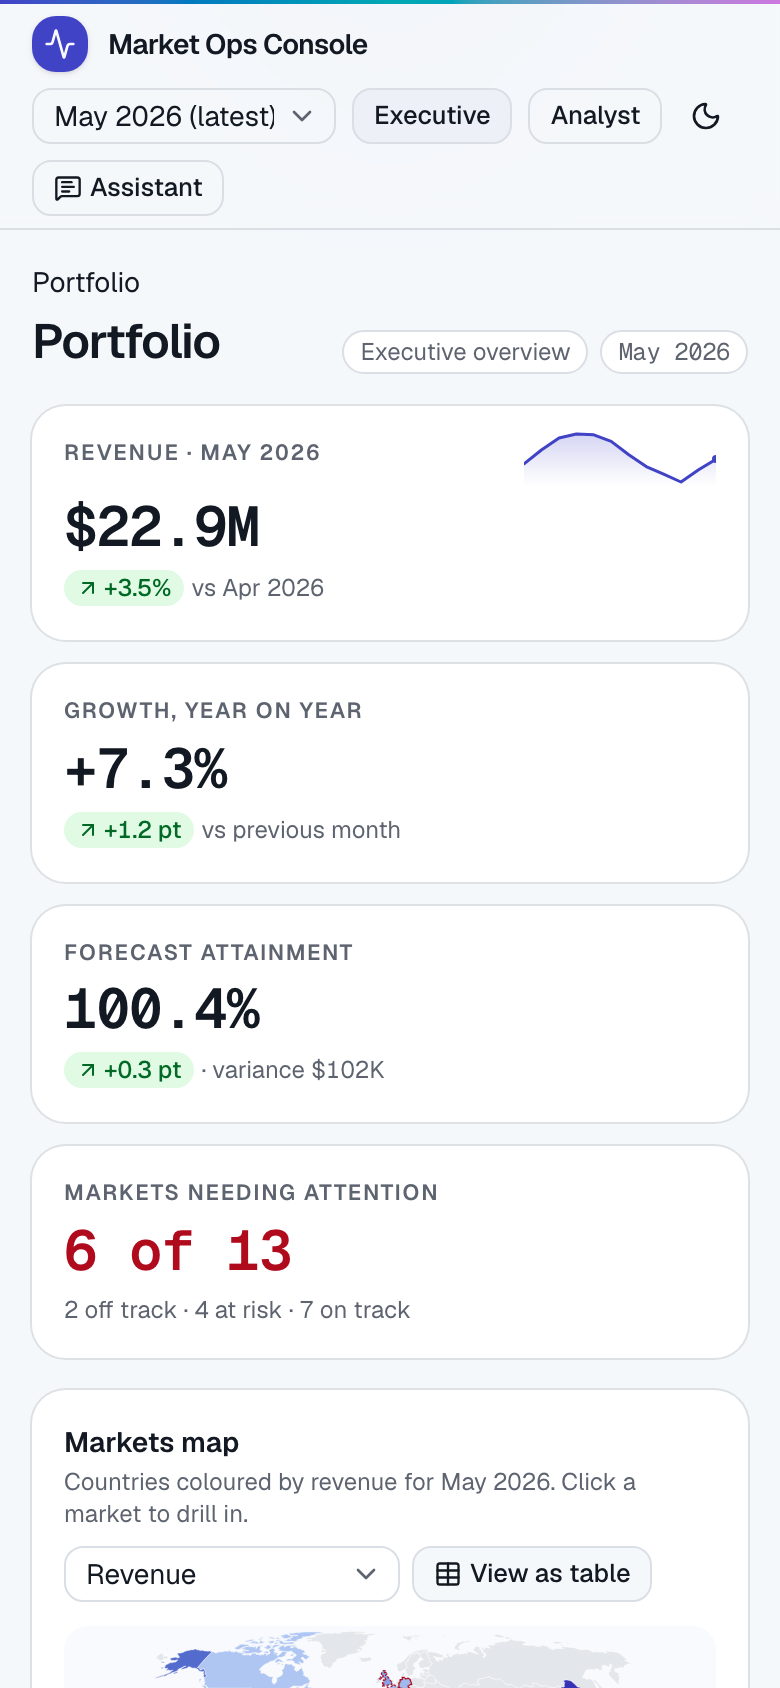
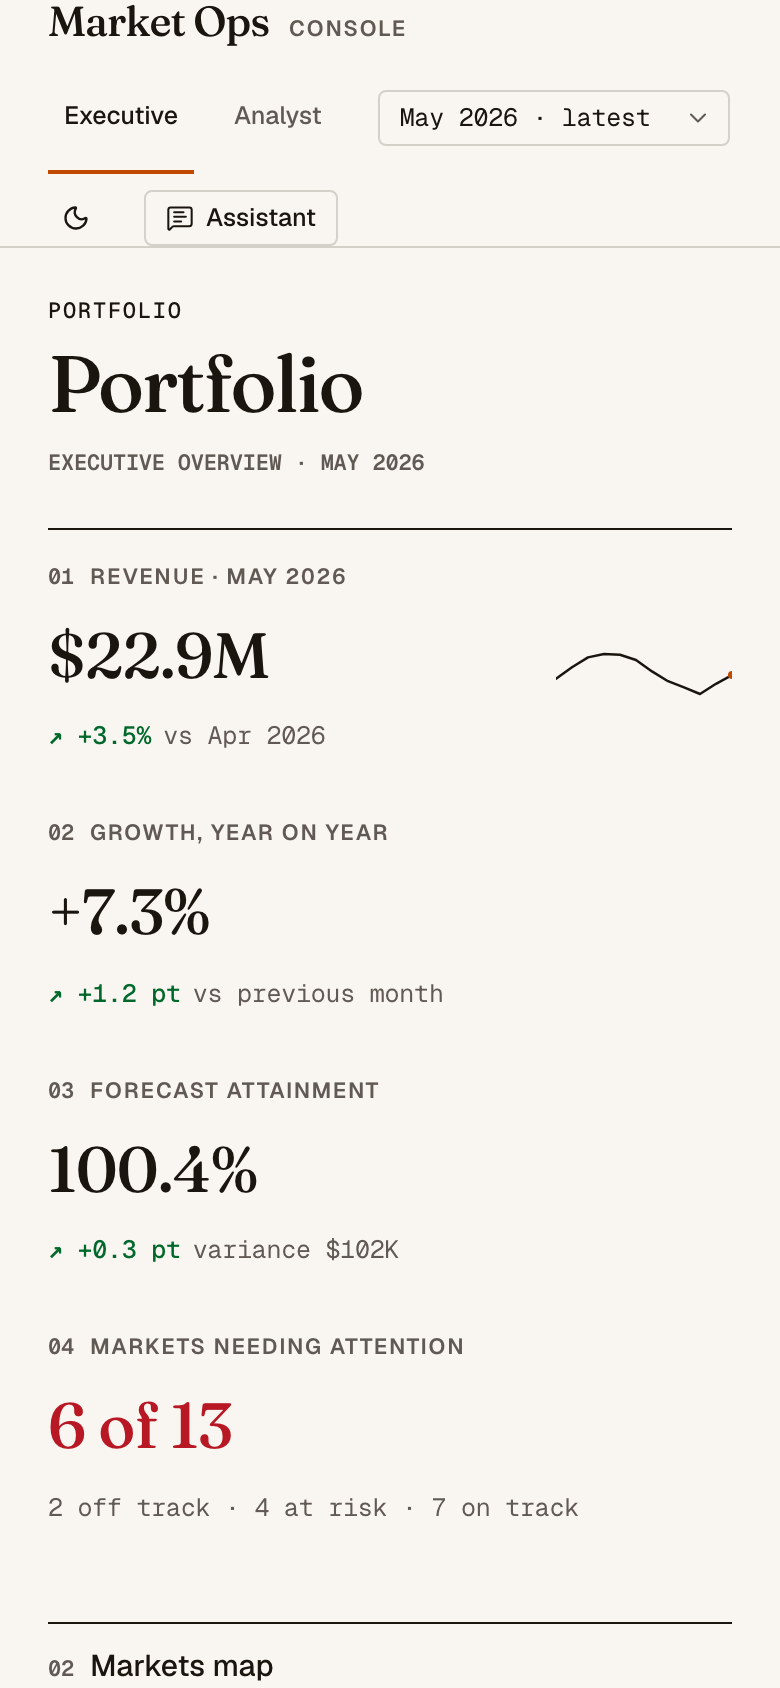
Design D5: delivery
- Section headings are h2 (heading order; Lighthouse accessibility back to 100)
- README: Design section rewritten for the editorial system; performance
  figures refreshed (100/100/100, LCP 0.8 s); screenshots regenerated

diff --git a/src/components/shared/Section.tsx b/src/components/shared/Section.tsx
@@ -75,7 +75,7 @@ export function Section({
               </span>
             ) : null}
             {title}
-          </h3>
+          </h2>
           {description ? (
             <p id={descId} className="text-ink-soft mt-1 max-w-prose text-[12.5px]">
               {description}
